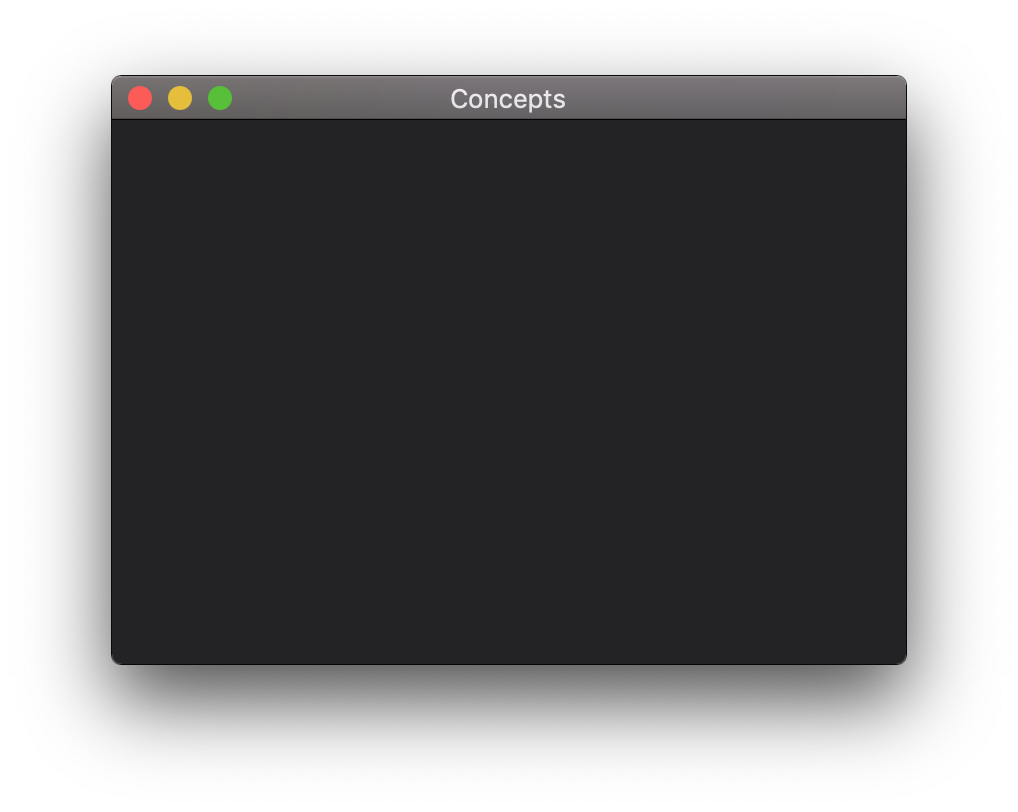
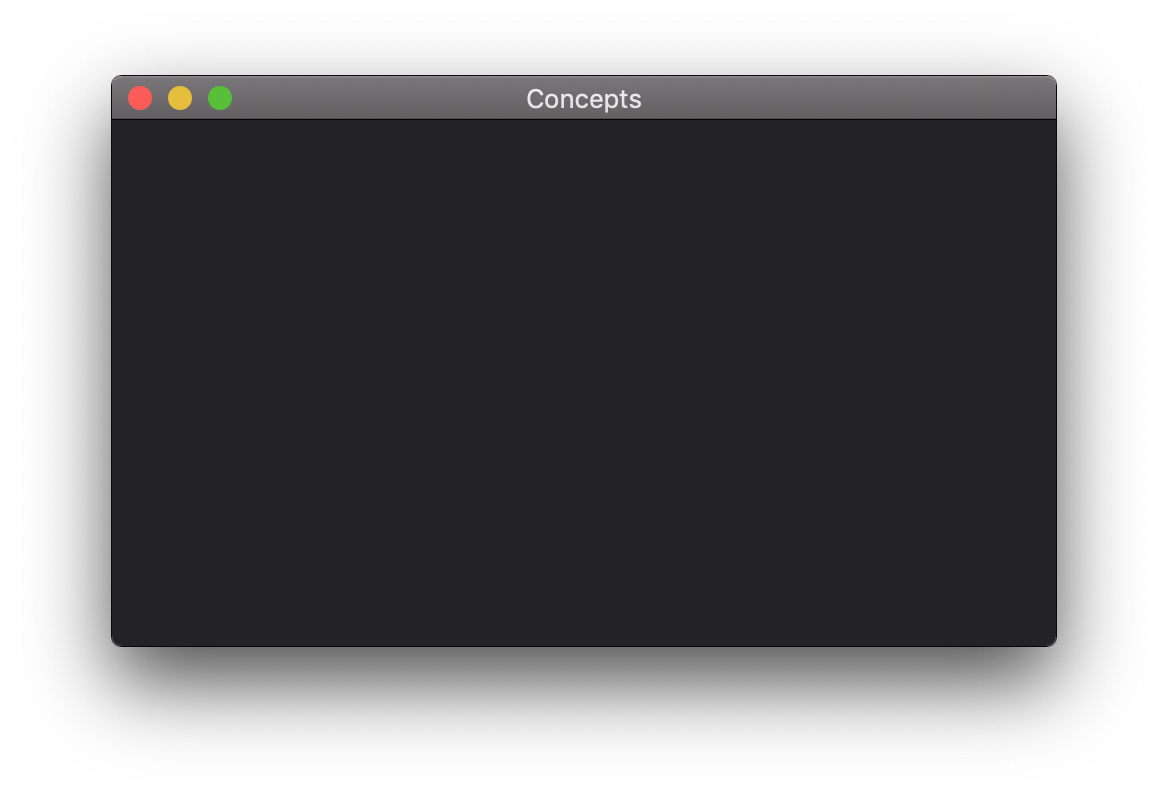
Concepts doc more WIP

Changed region(s): [[0.0914, 0.0907, 0.9136, 0.8161], [0.1523, 0.8161, 0.8527, 0.8463]]

diff --git a/examples/concepts/main.cpp b/examples/concepts/main.cpp
@@ -7,39 +7,67 @@
 
 using namespace cycfi::elements;
 
-#define STEP 2
+#define VARIANT 3
 
 // Main window background color
 auto constexpr bkd_color = rgba(35, 35, 37, 255);
 auto background = box(bkd_color);
 
-#if (STEP == 1)
+///////////////////////////////////////////////////////////////////////////////
+#if (VARIANT == 1)
 
 auto blue_rbox =
    align_center_middle(
       fixed_size(
          { 100, 50 },
-         rbox(colors::blue, 15)
+         rbox(colors::medium_blue, 10)
       )
    );
 
 #endif
 
-#if (STEP == 2)
+///////////////////////////////////////////////////////////////////////////////
+#if (VARIANT == 2)
 
 auto blue_rbox =
    align_center_middle(
       layer(
          margin(
-            { 20, 20, 20, 20 },
-            label("Hey There!")
+            { 25, 20, 25, 18 },
+            label("“Dogs are my favorite people”")
          ),
-         rbox(colors::blue, 15)
+         rbox(colors::medium_blue, 10)
       )
    );
 
 #endif
 
+///////////////////////////////////////////////////////////////////////////////
+#if (VARIANT == 3)
+
+auto btn_rbox(color c)
+{
+   return
+      layer(
+         margin(
+            { 25, 20, 25, 18 },
+            label("“Dogs are my favorite people”")
+         ),
+         rbox(c, 10)
+      );
+}
+
+auto make_button()
+{
+   return layered_button(
+      btn_rbox(colors::medium_blue),            // Normal state
+      btn_rbox(colors::medium_blue.level(0.8))  // Pushed state
+   );
+}
+
+#endif
+
+///////////////////////////////////////////////////////////////////////////////
 int main(int argc, const char* argv[])
 {
    app _app(argc, argv);
@@ -50,8 +78,10 @@ int main(int argc, const char* argv[])
 
    view_.content(
       {
-#if (STEP >= 1)
+#if (VARIANT == 1 || VARIANT == 2)
          share(blue_rbox),
+#elif (VARIANT == 3)
+         share(align_center_middle(make_button())),
 #endif
          share(background)
       }

diff --git a/docs/concepts.md b/docs/concepts.md
@@ -97,11 +97,15 @@ background using `box`, passing in a color. A rounded box is created using
 `rbox`, passing in the color and the radius:
 
 ```c++
-auto blue_rbox = rbox(colors::navy_blue, 15);
+auto blue_rbox = rbox(colors::medium_blue, 10);
 ```
 
-We can actually use that already, as-is, by placing it in another layer in
-the view:
+For the color, this time, we specified the color by name from the `colors`
+namespace. The namespace includes all predefined colors from the [standard
+HTML Color Names](https://www.w3schools.com/colors/colors_names.asp).
+
+We can actually use `blue_rbox` already, as-is, by placing it in another
+layer in the view:
 
 ```c++
 view_.content(
@@ -115,15 +119,14 @@ view_.content(
 But like the `box`, the `rbox` is infinitely resizable and will hog the
 entire window. What we want is to give it a specific size and center it in
 the window. Elements are very lightweight. Most elements do not even have a
-size, nor know their position in the view.
-
-So we give it a 100x50 size by wrapping it in the `fixed_size` element:
+size, nor know their position in the view. So we give it a 100x50 size by
+wrapping it in the `fixed_size` element:
 
 ```c++
 auto blue_rbox =
    fixed_size(
       { 100, 50 },
-      rbox(colors::navy_blue, 15)
+      rbox(colors::medium_blue, 10)
    );
 ```
 
@@ -135,13 +138,13 @@ auto blue_rbox =
    align_center_middle(
       fixed_size(
          { 100, 50 },
-         rbox(colors::navy_blue, 15)
+         rbox(colors::medium_blue, 10)
       )
    );
 ```
 
 Without the alignment element, the main window would have been constrained to
-a fixed 100x50 size.
+a fixed 100x50 size. There's a multitude of alignment elements available.
 
 But now, we are seeing how fine-grained elements are composed. The `rbox` is
 placed inside the `fixed_size` element which is then placed inside a
@@ -157,17 +160,17 @@ Our goal this time is to place some text inside the blue box. The element we
 will use is the `label`. Most elements do not have a size, but as an
 exception, labels (simple text elements) do. So, instead of fixing the size
 of the box using `fixed_size`, we instead place the label alongside the box
-in a `layer` element, but add some margin. Here's how yo do it:
+in a `layer` element, but add some margin. Here's how you do it:
 
 ```c++
 auto blue_rbox =
    align_center_middle(
       layer(
          margin(
-            { 20, 20, 20, 20 },
-            label("Hey There!")
+            { 25, 20, 25, 18 },
+            label("“Dogs are my favorite people”")
          ),
-         rbox(colors::blue, 15)
+         rbox(colors::medium_blue, 10)
       )
    );
 ```
@@ -180,19 +183,22 @@ Step 1: We make a label:
 label("Hey There!")
 ```
 
-Step 2: We add a 20px margin around it:
+Step 2: We add margin around it:
 
 ```c++
 margin(
-   { 20, 20, 20, 20 },
-   label("Hey There!")
+   { 25, 20, 25, 18 },
+   label("“Dogs are my favorite people”")
 )
 ```
+
+Note that like the align elements, there's a multitude of margins such as
+`left_margin`, `right_margin`, etc.
 
 Step 3: We make a blue rounded box:
 
 ```c++
-rbox(colors::blue, 15)
+rbox(colors::medium_blue, 10)
 ```
 
 Step 4: We place the label and the blue rounded box as siblings in a `layer`
@@ -201,17 +207,17 @@ element:
 ```c++
 layer(
    margin(
-      { 20, 20, 20, 20 },
-      label("Hey There!")
+      { 25, 20, 25, 18 },
+      label("“Dogs are my favorite people”")
    ),
-   rbox(colors::blue, 15)
+   rbox(colors::medium_blue, 10)
 )
 ```
 
 Step 4: Then finally, we place it in the `align_center_middle` element.
 
-Tip: If the hierarchy gets a bit too deep, use the c++ `auto` to name
-sub-parts of the element composition.
+Tip: If the element hierarchy gets a bit too deep, use the c++ `auto` to name
+sub-parts of the element composition to make it easier to understand.
 
 The `layer` element is a composite element that holds zero or more 'child'
 elements. Some of you might have noticed that we already mentioned the
@@ -220,6 +226,17 @@ and Window](#app-and-window) section: "The content of the `view` typically
 contains multiple layers, much like typical graphics applications". Well,
 actually, this is the same `layer` thing here. The view's main content is a
 `layer` element.
+
+So now we have:
+
+![concepts_c]({{ site.url }}/elements/assets/images/concepts_c.png){: width="60%" }
+
+## Let's Make a Button
+
+<video width="520" height="337" controls>
+  <source type="video/mp4" src="{{ site.url }}/elements/assets/images/button.mp4">
+</video>
+
 
 -------------------------------------------------------------------------------
 
